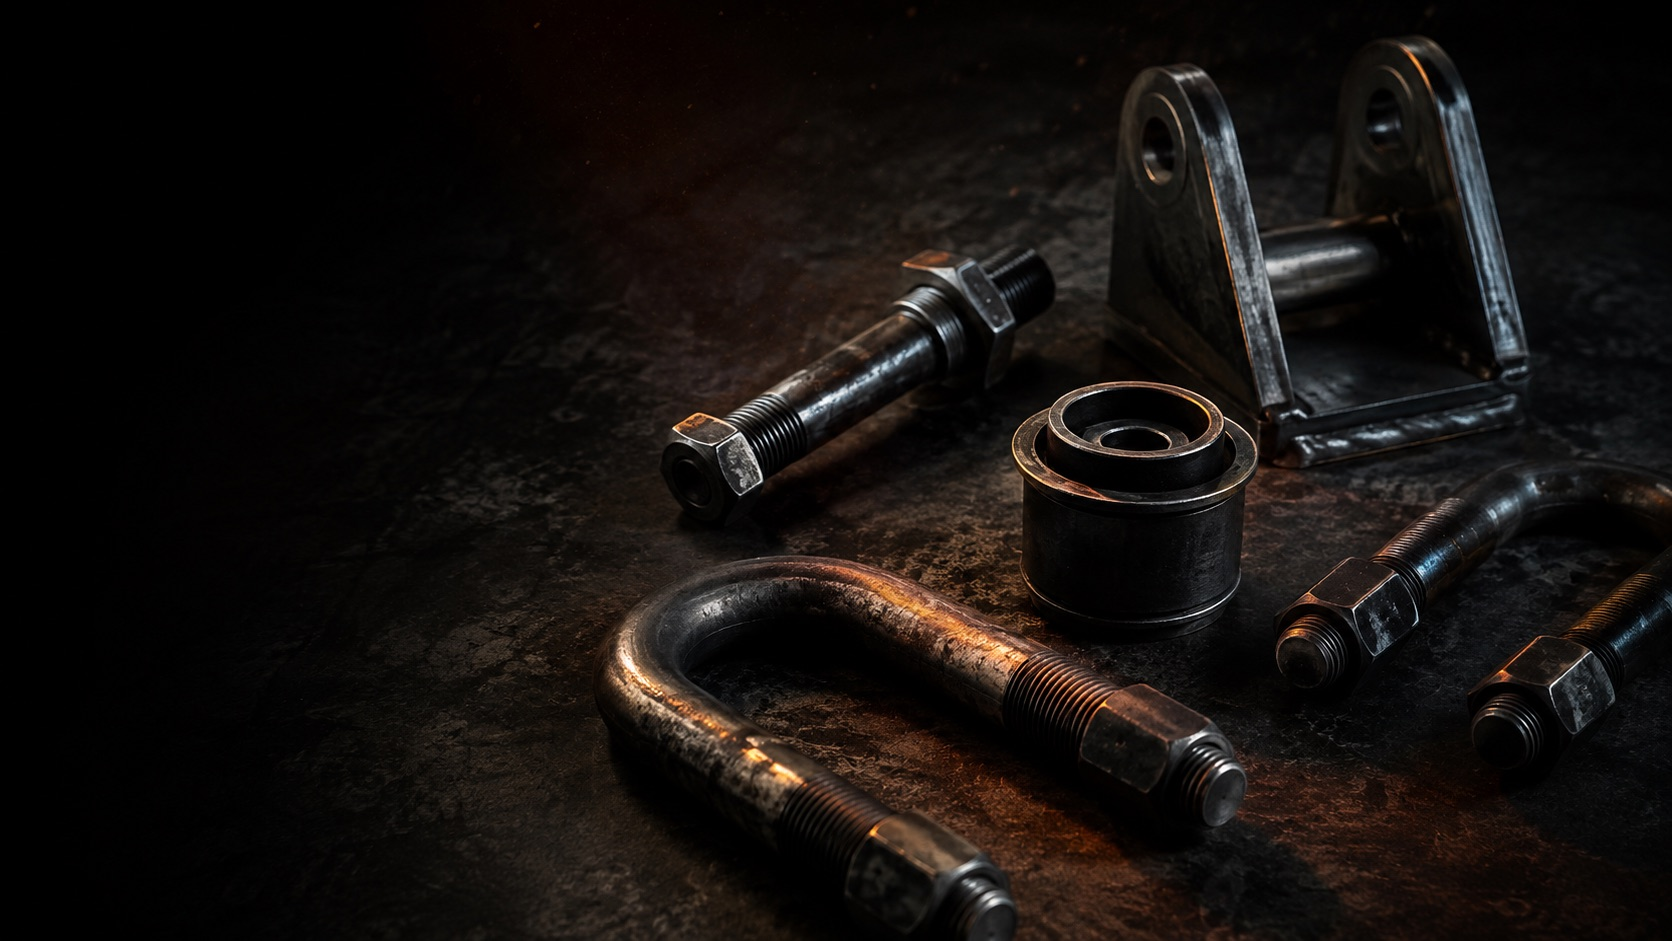
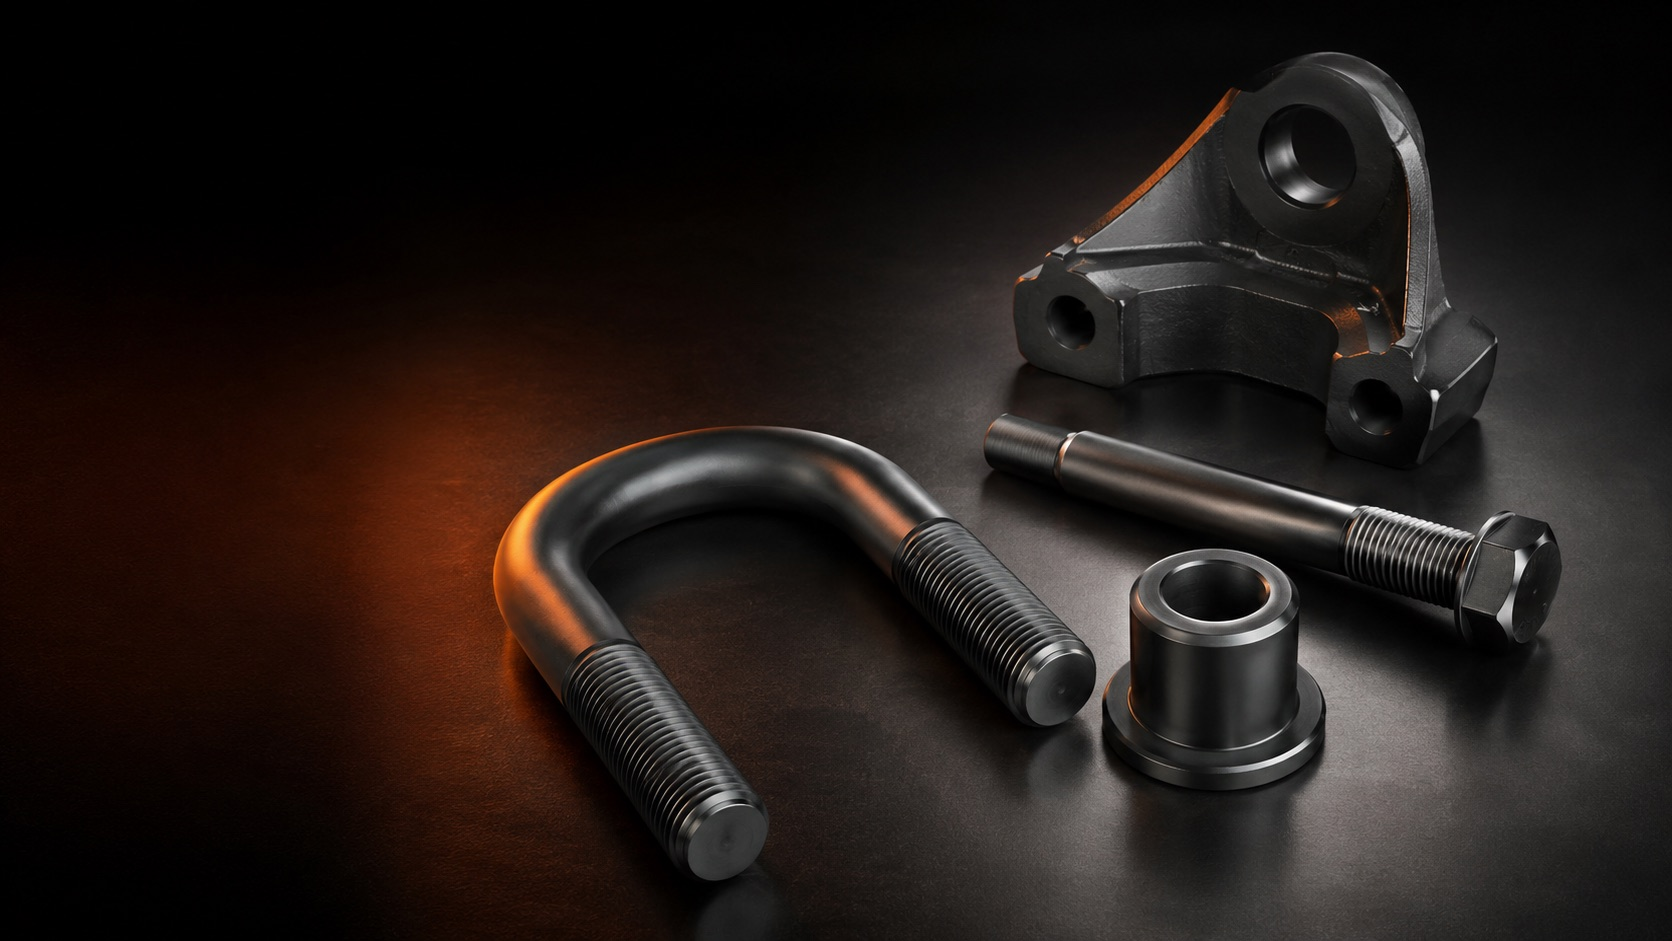
Add the full image set and set the new hero headline
- All 8 media slots now filled with final art; replaces the first hero,
  which had visible scratching and patina
- Hero headline becomes "Standard range. Custom sizes. Same standard."
  with explicit line breaks so the payoff never splits
- CTAs: "See the full range" and "Send your specification"
- Scrims retuned across the hero, the materials band and PageHero now
  that real art sits underneath rather than gradient placeholders
- Rewrite IMAGE-PROMPTS.md toward precision manufacturing; the earlier
  wording produced worn, second-hand looking parts

diff --git a/src/app/page.tsx b/src/app/page.tsx
@@ -25,18 +25,22 @@ export default function Home() {
           </Reveal>
 
           <Reveal delay={120}>
-            <h1 className="display-xl mt-6 max-w-4xl text-white text-balance">
-              Chassis components,
+            {/* Three deliberate beats: two setup lines, then the payoff in accent.
+                Breaks are explicit so the last line never splits. */}
+            <h1 className="display-xl mt-6 text-white">
+              Standard range.
               <br />
-              <span className="text-ember-500">made in Ludhiana.</span>
+              Custom sizes.
+              <br />
+              <span className="text-ember-500">Same standard.</span>
             </h1>
           </Reveal>
 
           <Reveal delay={240}>
             <p className="mt-8 max-w-xl text-lg leading-relaxed text-white/65">
-              For over two decades we have manufactured chassis components for auto parts,
-              tractor parts, motor parts and agricultural implements. We supply customers
-              across India and export overseas.
+              Chassis and spring components for commercial vehicles, tractors and
+              agricultural implements. Made under an ISO 9001:2015 quality system, whether
+              it comes from our catalogue or your drawing.
             </p>
           </Reveal>
 
@@ -46,7 +50,7 @@ export default function Home() {
                 href="/products"
                 className="group inline-flex items-center gap-2.5 rounded-full bg-ember-500 px-7 py-3.5 text-sm font-semibold text-white transition-all duration-300 hover:bg-ember-400 hover:shadow-[0_8px_30px_-6px] hover:shadow-ember-500/50"
               >
-                Explore the range
+                See the full range
                 <svg
                   viewBox="0 0 24 24"
                   className="size-4 transition-transform duration-300 group-hover:translate-x-1"
@@ -62,7 +66,7 @@ export default function Home() {
                 href="/contact"
                 className="rounded-full border border-white/20 px-7 py-3.5 text-sm font-semibold text-white/90 backdrop-blur-sm transition-all duration-300 hover:border-white/45 hover:bg-white/5"
               >
-                Request a quote
+                Send your specification
               </Link>
             </div>
           </Reveal>
@@ -131,8 +135,9 @@ export default function Home() {
 
       {/* ---------------- Full-bleed feature ---------------- */}
       <section className="relative isolate min-h-[80svh] overflow-hidden bg-ink-900">
-        <Media slot={media.craftsmanship} sizes="100vw" className="opacity-55" />
-        <div className="absolute inset-0 bg-gradient-to-br from-ink-950/90 via-ink-950/50 to-transparent" />
+        <Media slot={media.craftsmanship} sizes="100vw" />
+        {/* Art falls to black at the lower left, so the copy only needs a light scrim. */}
+        <div className="absolute inset-0 bg-gradient-to-br from-ink-950/85 via-ink-950/35 to-transparent" />
         <div className="container-x relative flex min-h-[80svh] items-center py-28">
           <div className="max-w-xl">
             <Reveal>

diff --git a/src/components/PageHero.tsx b/src/components/PageHero.tsx
@@ -15,8 +15,10 @@ export default function PageHero({
 }) {
   return (
     <section className="relative isolate flex min-h-[62svh] items-end overflow-hidden bg-ink-950">
-      <Media slot={slot} priority sizes="100vw" className="opacity-55" />
-      <div className="absolute inset-0 bg-gradient-to-t from-ink-950 via-ink-950/75 to-ink-950/30" />
+      {/* Art runs at full strength; the scrim only protects the copy on the left. */}
+      <Media slot={slot} priority sizes="100vw" />
+      <div className="absolute inset-0 bg-gradient-to-t from-ink-950 via-ink-950/50 to-ink-950/25" />
+      <div className="absolute inset-0 bg-gradient-to-r from-ink-950/75 via-ink-950/25 to-transparent" />
 
       <div className="container-x relative w-full pb-16 pt-36 sm:pb-20">
         {eyebrow && (

diff --git a/src/app/about/page.tsx b/src/app/about/page.tsx
@@ -69,8 +69,10 @@ export default function About() {
 
       {/* Full-bleed image */}
       <section className="relative isolate h-[60svh] overflow-hidden bg-ink-900">
-        <Media slot={media.facility} sizes="100vw" className="opacity-70" />
-        <div className="absolute inset-0 bg-gradient-to-t from-ink-950/80 to-transparent" />
+        {/* No copy sits on this one, and the art is bright, so it runs at full strength
+            with only a soft foot to seat it against the section below. */}
+        <Media slot={media.facility} sizes="100vw" />
+        <div className="absolute inset-0 bg-gradient-to-t from-ink-950/55 via-transparent to-transparent" />
       </section>
 
       {/* Values */}

diff --git a/IMAGE-PROMPTS.md b/IMAGE-PROMPTS.md
@@ -1,211 +1,147 @@
 # Image brief — Bhatia Auto Engineers
 
-Eight images to generate. Save each one into **`site/public/media/`** using the exact
-filename given. The site picks them up automatically on the next refresh; until then each
-slot shows a designed gradient panel, so nothing ever looks broken.
+Eight images. Save each into **`site/public/media/`** with the exact filename given. The
+site picks them up on reload; until then each slot shows a designed gradient panel.
 
-**Do not regenerate:** the logo (`public/brand/logo.png`) and the 38 product photographs
-in `public/products/`. Those stay exactly as they are.
+**Do not regenerate:** the logo (`public/brand/`) and the 38 product photographs in
+`public/products/`.
 
----
-
-## Read this first: the house style
-
-Every image must look like it came from the same photographer on the same day. Paste this
-block at the **start** of every prompt below.
-
-> **STYLE:** Cinematic industrial photography. Deep near-black background (#0A0A0B) falling
-> into shadow. A single warm key light from the upper left, and a tight warm-orange rim
-> light (#FF6A13) catching one edge of the subject. Shallow depth of field, gentle falloff.
-> Real, honest steel: micro-scratches, machining marks, faint oil sheen. Muted palette of
-> charcoal, gunmetal and steel blue-grey, with orange reserved as the only saturated
-> accent. Shot on a full-frame camera with an 85mm lens, f/2.0. Photorealistic, ultra
-> sharp on the subject, high dynamic range, subtle film grain. No text anywhere.
-
-And this at the **end** of every prompt:
-
-> **AVOID:** any text, letters, numbers, watermarks or logos. No people looking at camera.
-> No stock-photo gloss, no HDR halos, no lens flare, no plastic CGI look, no blue-and-teal
-> colour grading, no cluttered backgrounds, no shiny showroom floors, no visible brand
-> names on machinery.
-
-**Two rules that matter more than they sound:**
-
-1. **Keep the left third quiet.** Headlines sit over the left of every hero. Compose so the
-   subject sits centre-right and the left side falls into clean shadow or soft gradient.
-2. **Darker than feels right.** These sit under white text with a dark scrim on top. An
-   image that looks correctly exposed on its own will look washed out on the page.
-
-Export **JPEG, quality 82, sRGB**. Aim to keep each file under 400 KB; resize down to the
-listed pixel dimensions before saving.
+Model: **gpt-image-2**. Both edges must be divisible by 16; max non-experimental size is
+2560×1440. Export **JPEG q82, sRGB**.
 
 ---
 
-## 1. `hero-home.jpg` — the homepage hero
+## The direction
 
-**Where:** full-screen hero behind "Chassis components, made in Ludhiana."
-**Size:** 2880 × 1620 (16:9)
-**This is the most important image. Spend the most attempts here.**
+This is a precision engineering company running an ISO 9001:2015 quality system, with
+modern machinery, exporting internationally. The imagery has to say *exacting* and
+*capable*, not *rugged workshop*.
 
-> [STYLE BLOCK]
->
-> A hero-angle arrangement of forged steel automotive chassis components resting on a dark
-> matte steel surface: heavy U-bolts, a spring bush, a centre bolt and a chassis hanger
-> bracket. Arranged with generous space between them, like tools laid out with intent, not
-> a pile. Shot from a low three-quarter angle so the parts feel monumental against the
-> darkness. The left third of the frame is almost entirely empty shadow. A warm orange rim
-> light traces the top edge of the nearest U-bolt. Fine airborne dust catches the light.
->
-> [AVOID BLOCK]
+Every prompt below specifies **flawless, brand-new components** and a **modern, clean
+facility**. Do not reintroduce words like weathered, worn, grime, patina, micro-scratches or
+lived-in — an earlier version of this brief used them and produced parts that looked
+second-hand.
 
----
+Paste this at the **start** of every prompt:
 
-## 2. `craftsmanship.jpg` — full-bleed "Materials" band
+> **STYLE:** High-end industrial product photography for a precision engineering
+> manufacturer. Deep near-black studio background with controlled falloff. Every component
+> is brand new and flawless: crisp precision-machined surfaces, perfectly uniform
+> black-oxide and zinc-plated finishes, sharply formed thread profiles, immaculate edges,
+> a clean satin sheen. Lighting is deliberate and controlled — a soft key from the upper
+> left, a precise specular highlight running along the top edges, and a warm orange accent
+> light grazing one edge and tinting the shadows very slightly warm. Muted charcoal,
+> gunmetal and cool steel palette with warm orange as the only saturated colour. Full-frame
+> camera, 85mm at f/4 for crisp detail across the subject, photorealistic, high dynamic
+> range, very fine grain. Premium, engineered, exacting.
 
-**Where:** full-width section, "Quality starts with the steel."
-**Size:** 2880 × 1620 (16:9)
+And this at the **end**:
 
-> [STYLE BLOCK]
->
-> Extreme close-up of a freshly machined steel surface, the lathe's spiral tool marks
-> catching a raking light across the frame. Curled steel swarf sits at the edge of frame,
-> slightly out of focus. The metal shows the honest blue-grey of cut steel with a faint
-> heat tint. Almost abstract, more texture than object. Composition is a diagonal sweep
-> from lower left to upper right, with the lower left falling to near black.
->
-> [AVOID BLOCK]
+> **AVOID:** any text, letters, numbers, watermarks or logos. No rust, corrosion, pitting,
+> scratches, chips, dents, burrs, dirt, dust, grime, oil stains or weathering of any kind.
+> No worn, damaged or second-hand looking parts. No clutter, no mess, no old or dilapidated
+> machinery, no cracked or stained concrete. No people looking at camera. No stock-photo
+> gloss, no HDR halos, no lens flare, no plastic CGI look, no blue-and-teal grading.
 
----
+**Three rules that matter more than they sound:**
 
-## 3. `facility.jpg` — the workshop floor
-
-**Where:** used twice, as a tall 4:5 portrait on the homepage and full-bleed on the
-company page. **Compose so it survives both crops** — keep the subject centred vertically
-and horizontally, nothing important near any edge.
-**Size:** 2400 × 2400 (square, so both crops work)
-
-> [STYLE BLOCK]
->
-> The interior of a working metal fabrication workshop at dusk in Ludhiana, Punjab. Rows of
-> lathes and forging presses recede into shadow. A single overhead work lamp pools warm
-> light onto one machine in the middle distance, catching drifting dust in the air. Steel
-> stock is racked neatly along one wall. Lived-in and genuinely industrial rather than a
-> spotless showroom: worn concrete, honest wear on the machines. No people in frame, or at
-> most one distant silhouetted figure with their back turned.
->
-> [AVOID BLOCK]
+1. **Keep the left third quiet.** Headlines sit there on every hero. Compose so the subject
+   is centre-right and the left falls to clean shadow.
+2. **Darker than feels right.** These sit under white text with a scrim.
+3. **A trace of orange in each frame.** It ties the set to the site's accent. Keep it as a
+   light source, never a coloured object. Optional but preferred.
 
 ---
 
-## 4. `materials.jpg` — raw stock
+## 1. `hero-home.jpg` — homepage hero · 2560×1440
 
-**Where:** company page, 5:4 landscape beside "Our infrastructure"
-**Size:** 2000 × 1600 (5:4)
+> [STYLE] A hero arrangement of brand-new forged and machined steel chassis components on a
+> dark polished surface: a heavy U-bolt, a spring bush, a centre bolt and a chassis hanger
+> bracket. Every part is immaculate, freshly finished, with a deep uniform black-oxide sheen
+> and perfectly cut threads. Arranged with generous space between them, precisely placed as
+> if for inspection. Low three-quarter angle so the parts feel substantial. The left third
+> of the frame is empty clean shadow. A warm orange accent light traces the top edge of the
+> nearest U-bolt and washes faintly into the background. [AVOID]
 
-> [STYLE BLOCK]
->
-> A tight stack of raw round steel bar stock seen end-on, dozens of cut circular faces
-> filling the frame in a dense hexagonal pattern. Each cut face catches the light
-> differently: some bright and freshly sheared, some dulled with a light patina. Warm
-> orange light rakes from the upper left, leaving the lower right in deep shadow. Strongly
-> graphic and repetitive, almost a pattern study.
->
-> [AVOID BLOCK]
+## 2. `craftsmanship.jpg` — full-bleed "Quality starts with the steel" · 2560×1440
 
----
+> [STYLE] Extreme close-up of a flawlessly machined steel surface, the fine concentric
+> turning marks catching a raking light and reading as a precise, even pattern. Mirror-clean
+> metal with a cool satin finish and no debris anywhere. Almost abstract, more texture than
+> object. A warm orange highlight runs along one crisp machined edge. Composition sweeps
+> diagonally from lower left to upper right, the lower left falling to near black. [AVOID]
 
-## 5. `about-portrait.jpg` — company page hero
+## 3. `facility.jpg` — the production floor · 2048×2048 (square)
 
-**Where:** hero behind "Our company"
-**Size:** 2880 × 1620 (16:9)
+Square because it is cropped two ways — tall on the homepage, wide on the company page.
+Keep the subject centred with clear space to every edge.
 
-> [STYLE BLOCK]
->
-> A pair of experienced hands holding a finished steel chassis component up to the light for
-> inspection, framed from just above the wrists. The hands are weathered and capable, with
-> traces of workshop grime in the creases. The component is the hero, sharply focused, while
-> the workshop behind melts into warm bokeh. Shot from the inspector's own eye line. The
-> left third of the frame is soft dark background. No face visible.
->
-> [AVOID BLOCK]
+> [STYLE] The interior of a modern precision manufacturing facility. Rows of enclosed CNC
+> turning and machining centres with digital control panels, clean epoxy-resin floor with
+> crisp marked walkways, tooling stored in orderly racks, bright even overhead LED lighting
+> falling off into shadow at the edges of frame. Immaculate, organised and clearly
+> well-invested. A warm orange glow from one machine's status light adds the only saturated
+> colour. No people in frame, or one distant figure in clean workwear with their back
+> turned. The main subject is centred with empty space toward every edge. [AVOID]
 
----
+## 4. `materials.jpg` — raw stock · 2000×1600 (5:4)
 
-## 6. `products-banner.jpg` — products page hero
+> [STYLE] A precisely stacked bundle of raw steel bar stock seen end-on, dozens of cleanly
+> sheared circular faces filling the frame in a dense hexagonal packing pattern. Every cut
+> face is bright, square and freshly finished. Strongly graphic and repetitive, almost a
+> pattern study. A warm orange light rakes from the upper left, leaving the lower right in
+> deep shadow. [AVOID]
 
-**Where:** hero behind "Our products"
-**Size:** 2880 × 1620 (16:9)
+## 5. `about-portrait.jpg` — company page hero · 2560×1440
 
-> [STYLE BLOCK]
->
-> An overhead flat-lay of assorted steel chassis components laid out in a precise grid on a
-> dark slate surface: U-bolts, bushes, shackle plates, hub bolts and a spanner. Evenly
-> spaced with generous dark gaps between each piece, like an exploded technical diagram.
-> Even, soft top light with a warm orange gradient washing in from the right edge. Orderly
-> and rhythmic. The left third of the grid fades into shadow.
->
-> [AVOID BLOCK]
+> [STYLE] A pair of clean, capable hands measuring a finished steel chassis component with a
+> digital micrometer, framed from just above the wrists. The component is spotless and
+> precision-finished; the micrometer reads as modern quality-control equipment. The part is
+> sharply focused while the bright facility behind falls into soft bokeh. Shot from the
+> inspector's own eye line, no face visible. The left third of the frame is clean dark
+> background. A warm orange highlight catches one edge of the component. [AVOID]
 
----
+## 6. `products-banner.jpg` — products page hero · 2560×1440
 
-## 7. `contact-banner.jpg` — contact page hero
+> [STYLE] An overhead flat-lay of assorted brand-new steel chassis components arranged in a
+> precise grid on a dark matte surface: U-bolts, spring bushes, shackle plates, hub bolts and
+> a spanner. All flawless with uniform finishes, evenly spaced with generous dark gaps
+> between each piece, laid out like a technical specification chart. Even soft top light with
+> a warm orange gradient washing in from the right edge. Orderly and rhythmic. The left third
+> fades into shadow. [AVOID]
 
-**Where:** hero behind "Contact us"
-**Size:** 2880 × 1620 (16:9)
+## 7. `contact-banner.jpg` — contact page hero · 2560×1440
 
-> [STYLE BLOCK]
->
-> The exterior of an industrial workshop building at blue hour, warm light spilling out
-> through a tall open roller shutter onto the apron outside. The surrounding yard falls into
-> deep blue-black shadow. The glow from inside is the only warm element, and it sits in the
-> right half of the frame. Quiet, still, and inviting rather than busy. No vehicles with
-> visible badges, no signage.
->
-> [AVOID BLOCK]
+> [STYLE] The exterior of a modern industrial manufacturing building at blue hour: clean
+> profiled steel cladding, large glazed panels, a tall open shutter with warm light spilling
+> onto a smooth, spotless concrete apron. Contemporary and well-maintained. The surrounding
+> yard falls into deep blue-black shadow, and the warm glow sits in the right half of the
+> frame with the left third empty. Quiet and inviting. No signage on the building, no
+> vehicles with visible badges. [AVOID]
 
----
+## 8. `cta-backdrop.jpg` — closing call to action · 2560×1440
 
-## 8. `cta-backdrop.jpg` — closing call to action
+Sits under a heavy dark overlay with centred text, so keep it almost abstract.
 
-**Where:** behind "Tell us what you need and we will send a quote." Sits under heavy dark overlay
-and centred text, so it should be **almost abstract**. Detail here is wasted.
-**Size:** 2880 × 1620 (16:9)
+> [STYLE] A very dark, near-abstract macro of flawless brushed steel, the fine grain running
+> horizontally across the frame with an even satin sheen. A soft warm orange glow bleeds in
+> from the lower right and falls away to black everywhere else. Almost no discernible
+> subject: a mood and a texture, not an object. Extremely low contrast in the shadows,
+> heavily underexposed. [AVOID]
 
-> [STYLE BLOCK]
->
-> A very dark, near-abstract macro of brushed steel, the grain running horizontally across
-> the frame. A soft warm orange glow bleeds in from the lower right corner and falls away to
-> black everywhere else. Almost no discernible subject: this is a mood and a texture, not an
-> object. Extremely low contrast in the shadows, deep and moody.
->
-> [AVOID BLOCK]
+## Bonus: `og-image.jpg` — social sharing card · 1216×640
 
----
+`1200×630` fails the divisible-by-16 rule; this is the nearest valid size at the same ratio.
 
-## Two extras, if you have the credits
-
-### `public/media/og-image.jpg` — social sharing card
-**Size:** 1200 × 630. This is what appears when the link is pasted into WhatsApp or
-LinkedIn. Same style block, showing three or four components arranged centre-frame on
-black with an orange rim light, composed with generous margins so nothing crops awkwardly.
-Tell me once it exists and I will wire it into the metadata.
-
-### A transparent-background logo
-Not a generation job, a cleanup. `public/brand/logo.png` is RGB with a baked-in white
-background, which is why it currently sits on a small white plate in the header and footer.
-If you can export the original artwork as a **PNG with a transparent background**, plus a
-**white/knockout version** for dark backgrounds, save them as `public/brand/logo.png` and
-`public/brand/logo-white.png`. The header will then look noticeably cleaner over the dark
-hero. Entirely optional, and the site is fine without it.
+> [STYLE] Three or four flawless forged steel chassis components — a U-bolt, a spring bush
+> and a centre bolt — arranged centre-frame on a deep near-black surface with generous empty
+> margin on all four sides. A warm orange accent light traces one edge of each part. [AVOID]
 
 ---
 
 ## When the images are ready
 
-Drop the files into `site/public/media/` and reload. That is all that is required, there is
-no code change and no list to update.
+Drop them into `site/public/media/` and reload. No code change, no list to update.
 
-Then tell me and I will do a pass over the result: check each image against the text
-sitting on top of it, tune the overlay strength per image, and adjust the crops. Generated
-images almost never land perfectly against real typography on the first try, and that
-tuning is easier for me to do once I can see them.
+Then tell me and I will tune the scrim strength and crop per image — generated art rarely
+sits right against real typography first time, and that is easier once I can see it.
